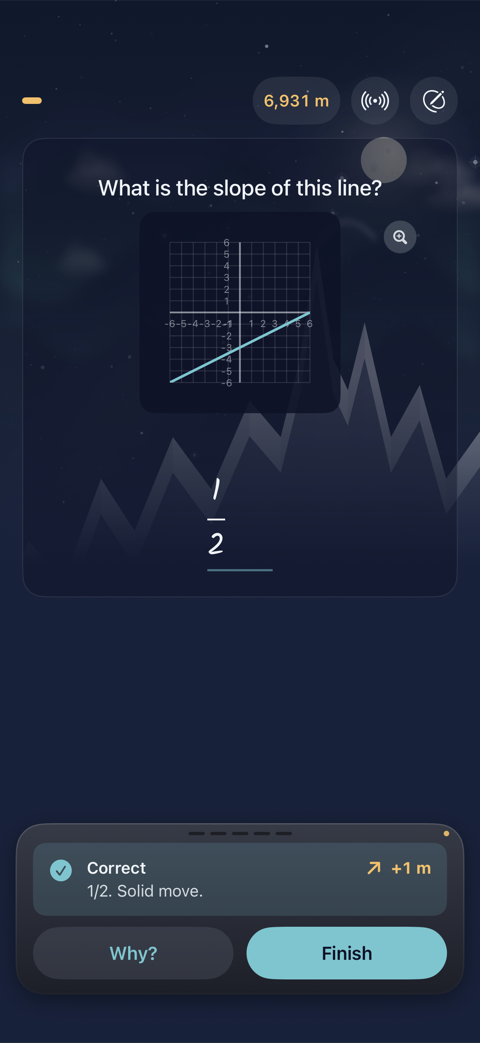
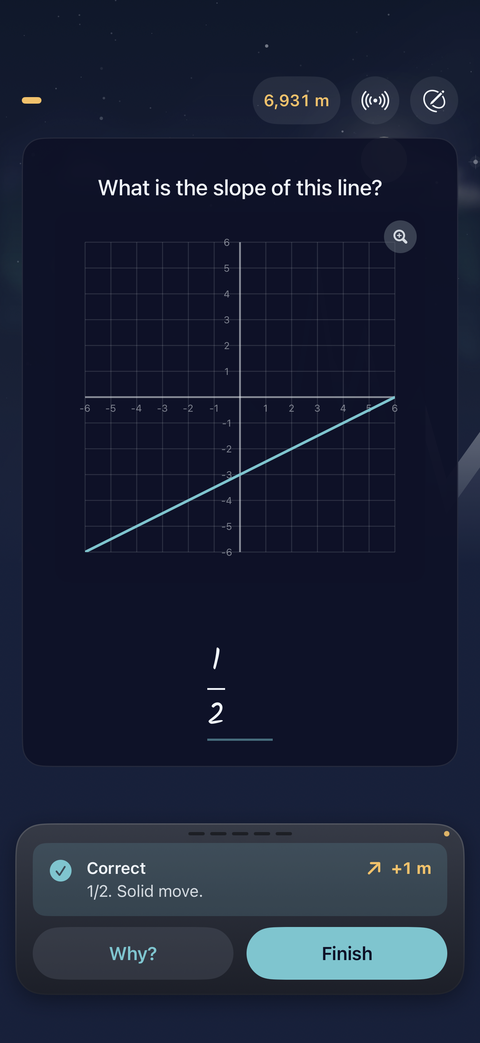
Ascent: storage is local only; 1.0.3 shots; hint and Weather Window wording
The landing page, support, privacy and terms said progress can sync
through the user's own iCloud. Ascent stores everything on the device
(no iCloud entitlement ships), so every page now says so, and support
and privacy note that the device's own backups carry the progress.
Privacy and terms are dated October 5, 2026.

Support: hints come in up to four levels (one-step problems have
three), the Weather Window is the same for climbers at the same point
on the route, and the scratchpad keeps its working while closed.

The per-leg strip is re-rendered from the 1.0.3 code: typeset answers,
a joined square-root bar, solid cards. Same problems, same alt text.

diff --git a/ascent/support.html b/ascent/support.html
@@ -121,7 +121,7 @@
                     <div class="step-num">3</div>
                     <div class="step-content">
                         <h4>Ask for more if you need it</h4>
-                        <p>Tap <strong>Ask for more</strong> to climb the hint ladder. There are four levels in all, from that first nudge up to the full worked idea. Stop at whichever level gets you moving again; the earlier rungs never state the answer.</p>
+                        <p>Tap <strong>Ask for more</strong> to climb the hint ladder. There are up to four levels, from that first nudge up to the full worked idea. Stop at whichever level gets you moving again; the earlier rungs never state the answer.</p>
                     </div>
                 </div>
                 <div class="step">
@@ -158,7 +158,7 @@
                         <p>Sketch the number line, expand the brackets, try a value, whatever helps. Tap <strong>Clear</strong> to wipe the page and start over, and <strong>Done</strong> to return to the problem and enter your answer.</p>
                     </div>
                 </div>
-                <p>Like real scrap paper, the scratchpad wipes clean when you move on to the next problem. Nothing you write there is stored, synced, or seen by anyone.</p>
+                <p>Your working stays put while you close the scratchpad to enter your answer, and like real scrap paper, it wipes clean when you move on to the next problem. Nothing you write there is stored, synced, or seen by anyone.</p>
             </section>
 
             <section>
@@ -191,7 +191,7 @@
 
                 <div class="faq-item">
                     <h3>I'm stuck on a problem. What do I do?</h3>
-                    <p>Call Base Camp. The radio button is on every problem and is never punished: it gives four levels of help, from a small nudge to the full worked idea. Every concept also has a lesson you can reread and fresh worked examples, and the scratchpad gives you space for rough work with your finger or Apple Pencil.</p>
+                    <p>Call Base Camp. The radio button is on every problem and is never punished: it gives up to four levels of help, from a small nudge to the full worked idea. Every concept also has a lesson you can reread and fresh worked examples, and the scratchpad gives you space for rough work with your finger or Apple Pencil.</p>
                 </div>
 
                 <div class="faq-item">
@@ -206,7 +206,7 @@
 
                 <div class="faq-item">
                     <h3>What is the Weather Window?</h3>
-                    <p>A short daily challenge, separate from the main climb, with its own streak. It is the same for every climber on a given day, so you can compare cards. Missing a day never takes away altitude or patches.</p>
+                    <p>A short daily challenge, separate from the main climb, with its own streak. On a given day it is the same for every climber at the same point on the route, so friends climbing together can compare cards. Missing a day never takes away altitude or patches.</p>
                 </div>
 
                 <div class="faq-item">
@@ -216,12 +216,12 @@
 
                 <div class="faq-item">
                     <h3>Does Ascent work offline?</h3>
-                    <p>Yes. The whole app works offline. An internet connection is only used for optional iCloud sync between your own devices and for the App Store purchase itself.</p>
+                    <p>Yes. The whole app works offline. An internet connection is only used for the App Store purchase itself.</p>
                 </div>
 
                 <div class="faq-item">
                     <h3>Does it sync between iPhone and iPad?</h3>
-                    <p>Yes. If you enable iCloud for Ascent, progress syncs across your own iPhone and iPad through your private iCloud account, which we cannot access. You can turn this off in your device settings if you prefer to keep each device separate.</p>
+                    <p>No. Progress stays on the device you climb on, so each iPhone or iPad keeps its own climbers. Your device's regular backup (iCloud Backup or a backup to a computer) includes Ascent's progress, so restoring a backup onto a new device brings your climbers along.</p>
                 </div>
 
                 <div class="faq-item">

diff --git a/ascent/privacy.html b/ascent/privacy.html
@@ -30,7 +30,7 @@
         <article class="doc">
             <a href="/ascent/" class="back-link">&larr; Back to Ascent</a>
             <h1>Ascent: Privacy Policy</h1>
-            <p class="last-updated">Last updated: July 17, 2026</p>
+            <p class="last-updated">Last updated: October 5, 2026</p>
 
             <section>
                 <h2>Introduction</h2>
@@ -62,14 +62,9 @@
                     <li><strong>Climber profiles</strong>: if more than one person uses the app, each climber has their own profile (a name) and their own expedition. Profiles are not accounts; they are simply separate save slots on your device.</li>
                     <li><strong>Learning progress</strong>: which skills each climber has practiced and mastered, altitude, camps reached, streaks, expedition patches, the Expedition Log, and Weather Window results.</li>
                     <li><strong>Placement results</strong>: the optional placement check at the start (the flight in) runs entirely on the device and is used only to choose a starting camp.</li>
-                    <li><strong>Settings and preferences</strong>: sound options and the on or off state of optional features.</li>
+                    <li><strong>Settings and preferences</strong>: the haptics switch.</li>
                 </ul>
-                <p>This information is stored locally on the device and is used only to run the app and adapt the learning experience.</p>
-            </section>
-
-            <section>
-                <h2>iCloud Sync</h2>
-                <p>If you choose to use it, Ascent can sync progress between your own iPhone and iPad using Apple's iCloud (CloudKit private database). This data lives in your personal iCloud account, controlled by your Apple ID. We cannot see it, access it, or retrieve it. iCloud is operated by Apple and is subject to <a href="https://www.apple.com/legal/privacy/">Apple's Privacy Policy</a>. If you prefer not to sync, you can turn off iCloud for Ascent in your device settings, and the app works fully offline.</p>
+                <p>This information is stored locally on the device and is used only to run the app and adapt the learning experience. Ascent does not sync it through iCloud or any other service. Like any app's data, it is included in your device's own backups (iCloud Backup or a backup to a computer), which you control.</p>
             </section>
 
             <section>
@@ -90,7 +85,6 @@
             <section>
                 <h2>Apple Services We Use</h2>
                 <ul>
-                    <li><strong>Apple iCloud (CloudKit)</strong>: optional sync of progress across your own devices, stored in your private iCloud account.</li>
                     <li><strong>Apple App Store (StoreKit)</strong>: processing of the optional Full Expedition purchase and restores.</li>
                 </ul>
                 <p>We do not use any non-Apple analytics, advertising, or tracking services.</p>
@@ -103,10 +97,9 @@
 
             <section>
                 <h2>Data Deletion</h2>
-                <p>Because data is stored on your device (and, if enabled, in your own iCloud), you are in control of it:</p>
+                <p>Because data is stored only on your device, you are in control of it:</p>
                 <ul>
                     <li>Deleting Ascent from the device removes the app's local data.</li>
-                    <li>To remove synced data, you can also delete Ascent's data from iCloud in your device settings under your Apple ID.</li>
                     <li>The Full Expedition purchase is tied to your Apple ID and can be restored on a new device from inside the app.</li>
                 </ul>
             </section>

diff --git a/ascent/index.html b/ascent/index.html
@@ -73,7 +73,7 @@
         {
           "@type": "Question",
           "name": "Is it private? Does it work offline?",
-          "acceptedAnswer": { "@type": "Answer", "text": "Yes and yes. No ads, no tracking, no third-party code, no data collection. Everything works offline, and optional sync runs through your own private iCloud." }
+          "acceptedAnswer": { "@type": "Answer", "text": "Yes and yes. No ads, no tracking, no third-party code, no data collection. Everything works offline, and your progress stays on your device." }
         }
       ]
     }
@@ -269,7 +269,7 @@
                 <div class="as-card">
                     <div class="ico">📻</div>
                     <h3>Stuck never means stranded</h3>
-                    <p>The radio to Base Camp is one tap away on every problem: four levels of hints, never punished. Every concept has a lesson you can reread and endless fresh worked examples.</p>
+                    <p>The radio to Base Camp is one tap away on every problem: up to four levels of hints, never punished. Every concept has a lesson you can reread and endless fresh worked examples.</p>
                 </div>
                 <div class="as-card">
                     <div class="ico">📈</div>
@@ -289,7 +289,7 @@
                 <div class="as-card">
                     <div class="ico">🔒</div>
                     <h3>Private by design</h3>
-                    <p>No ads, no tracking, no third-party code, no data collection. Works offline, and optional sync runs through your own private iCloud. From the makers of <a href="/numina/">Numina</a>.</p>
+                    <p>No ads, no tracking, no third-party code, no data collection. Works offline, and everything stays on your device. From the makers of <a href="/numina/">Numina</a>.</p>
                 </div>
             </div>
         </section>
@@ -465,7 +465,7 @@
                 <div class="as-card">
                     <div class="ico">🧭</div>
                     <h3>One source of truth</h3>
-                    <p>The same engine that writes a problem also checks your answer, feeds the four radio hints, and walks the worked solution, with every step guaranteed to preserve the equation's solutions. Help can never contradict the math.</p>
+                    <p>The same engine that writes a problem also checks your answer, feeds the radio hints, and walks the worked solution, with every step guaranteed to preserve the equation's solutions. Help can never contradict the math.</p>
                 </div>
                 <div class="as-card">
                     <div class="ico">🩺</div>
@@ -536,7 +536,7 @@
                 </details>
                 <details>
                     <summary>Is it private? Does it work offline?</summary>
-                    <p class="answer">Yes and yes. No ads, no tracking, no third-party code, no data collection. Everything works offline, and optional sync runs through your own private iCloud.</p>
+                    <p class="answer">Yes and yes. No ads, no tracking, no third-party code, no data collection. Everything works offline, and your progress stays on your device.</p>
                 </details>
             </div>
             <p class="as-faq-more">More questions? The <a href="/ascent/support.html">Support page</a> has step-by-step help: unlocking the Full Expedition, redeeming a code, calling Base Camp for hints, and using the scratchpad.</p>

diff --git a/ascent/terms.html b/ascent/terms.html
@@ -30,7 +30,7 @@
         <article class="doc">
             <a href="/ascent/" class="back-link">&larr; Back to Ascent</a>
             <h1>Ascent: Terms of Use</h1>
-            <p class="last-updated">Last updated: July 17, 2026</p>
+            <p class="last-updated">Last updated: October 5, 2026</p>
 
             <section>
                 <p>By downloading, installing, or using Ascent ("the App"), you agree to the following terms. If you do not agree, do not use the App.</p>
@@ -69,7 +69,7 @@
 
             <section>
                 <h2>6. Data and Storage</h2>
-                <p>Ascent stores its data on your device, and, if you enable it, in your own private iCloud account. We do not host or have access to this data. You are responsible for maintaining your own backups. We are not liable for any data loss resulting from device failure, app deletion, disabling iCloud, or any other cause. The Full Expedition unlock is tied to your Apple ID and can be restored through the App Store even if local data is lost.</p>
+                <p>Ascent stores its data on your device. We do not host or have access to this data. You are responsible for maintaining your own backups. We are not liable for any data loss resulting from device failure, app deletion, or any other cause. The Full Expedition unlock is tied to your Apple ID and can be restored through the App Store even if local data is lost.</p>
             </section>
 
             <section>
